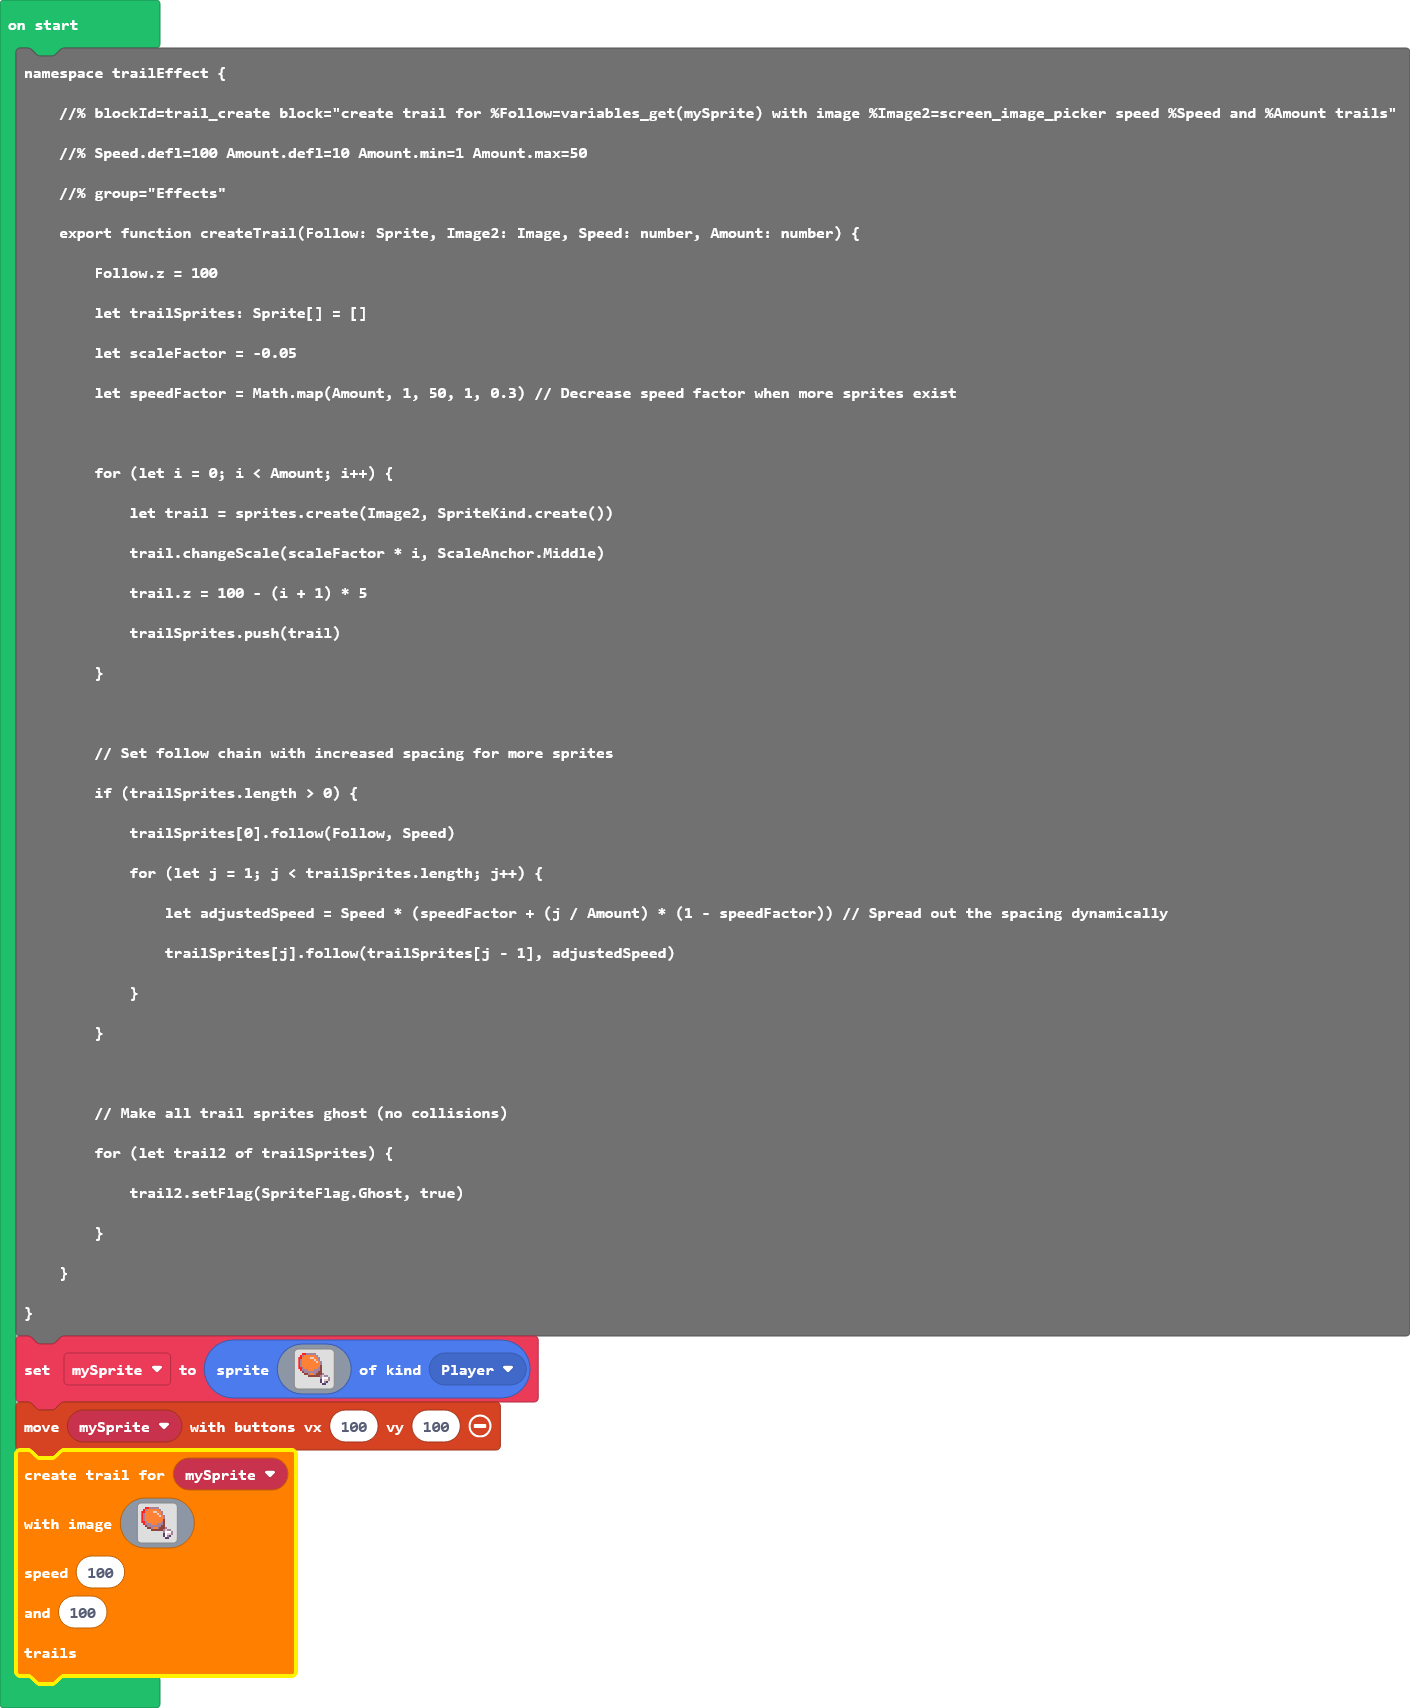
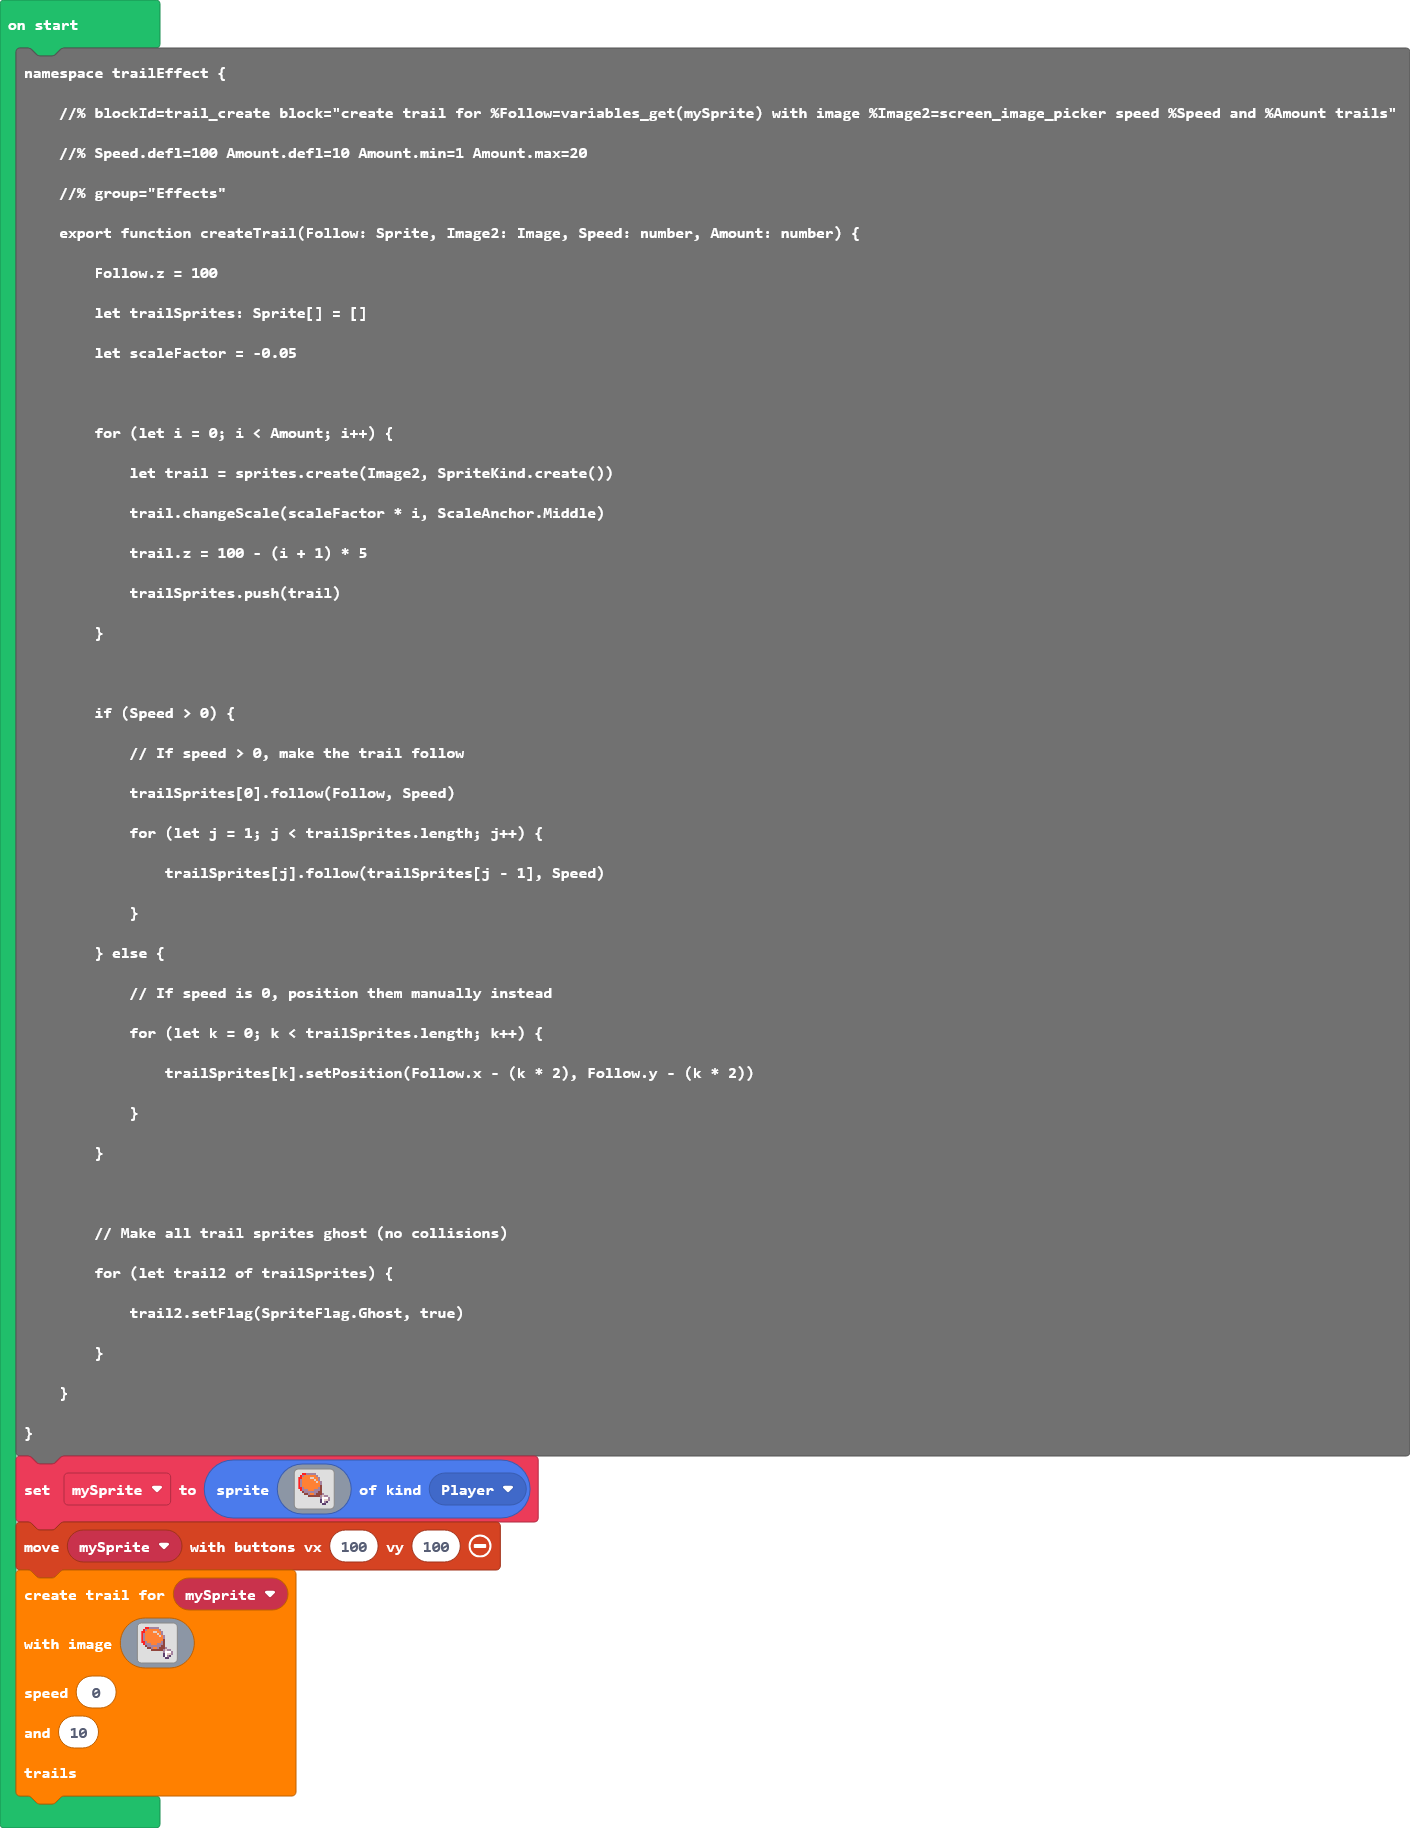
sprite doesn't follow you when speed is sat to zero

diff --git a/main.ts b/main.ts
@@ -1,4 +1,3 @@
-//% weight=100 color=#ff8000 icon="\uf021" block="Trail Effect"
 namespace trailEffect {
     //% blockId=trail_create block="create trail for %Follow=variables_get(mySprite) with image %Image2=screen_image_picker speed %Speed and %Amount trails"
     //% Speed.defl=100 Amount.defl=10 Amount.min=1 Amount.max=20
@@ -15,21 +14,25 @@ namespace trailEffect {
             trailSprites.push(trail)
         }
 
-        // Set follow chain
-        if (trailSprites.length > 0) {
+        if (Speed > 0) {
+            // If speed > 0, make the trail follow
             trailSprites[0].follow(Follow, Speed)
-            for (let i = 1; i < trailSprites.length; i++) {
-                trailSprites[i].follow(trailSprites[i - 1], Speed)
+            for (let j = 1; j < trailSprites.length; j++) {
+                trailSprites[j].follow(trailSprites[j - 1], Speed)
+            }
+        } else {
+            // If speed is 0, position them manually instead
+            for (let k = 0; k < trailSprites.length; k++) {
+                trailSprites[k].setPosition(Follow.x - (k * 2), Follow.y - (k * 2))
             }
         }
 
         // Make all trail sprites ghost (no collisions)
-        for (let trail of trailSprites) {
-            trail.setFlag(SpriteFlag.Ghost, true)
+        for (let trail2 of trailSprites) {
+            trail2.setFlag(SpriteFlag.Ghost, true)
         }
     }
 }
-
 let mySprite = sprites.create(img`
     . . 2 2 b b b b b . . . . . . . 
     . 2 b 4 4 4 4 4 4 b . . . . . . 
@@ -69,6 +72,6 @@ img`
     . . . . . . . . . . . c 1 b c . 
     . . . . . . . . . . . . c c . . 
     `,
-100,
-100
+0,
+10
 )
